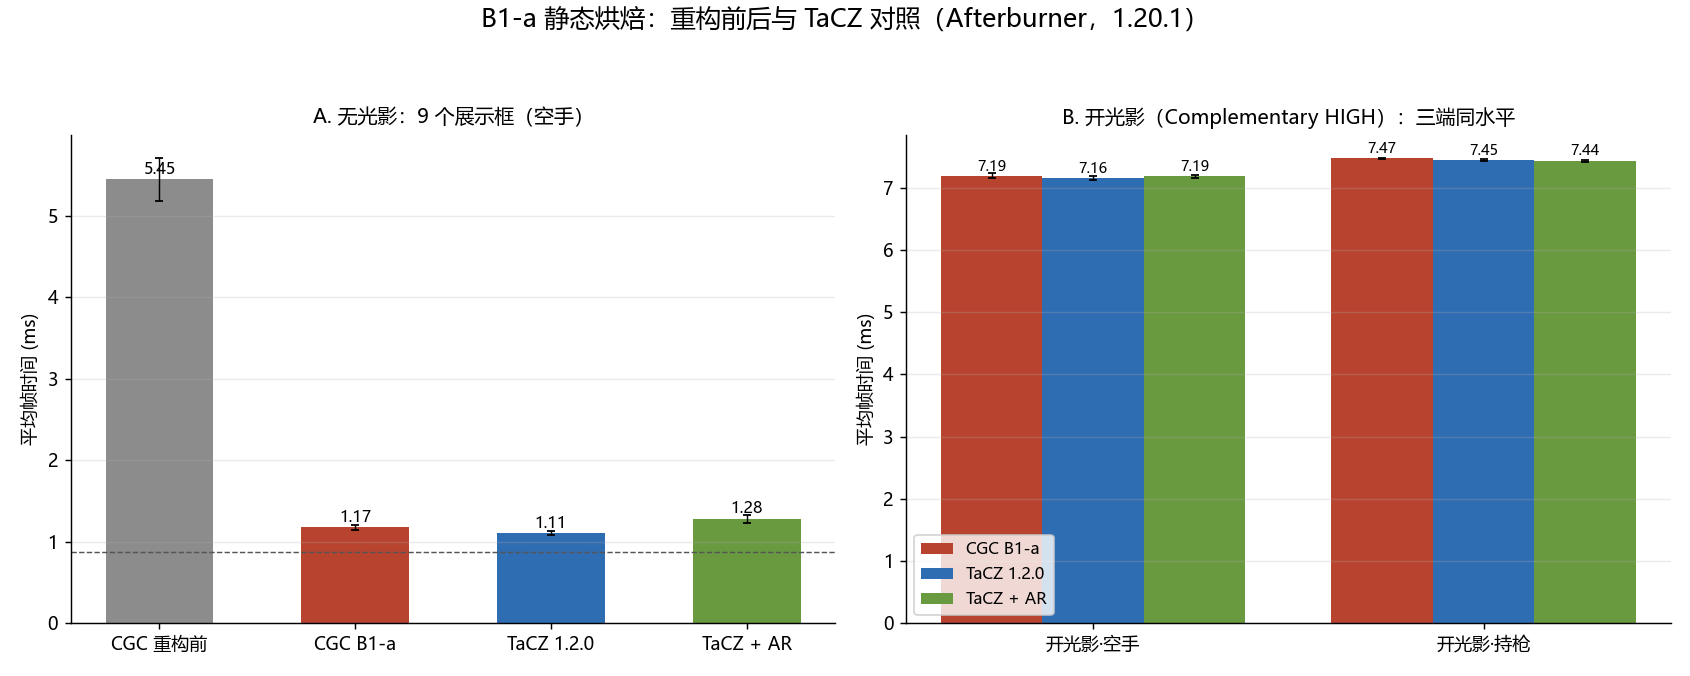
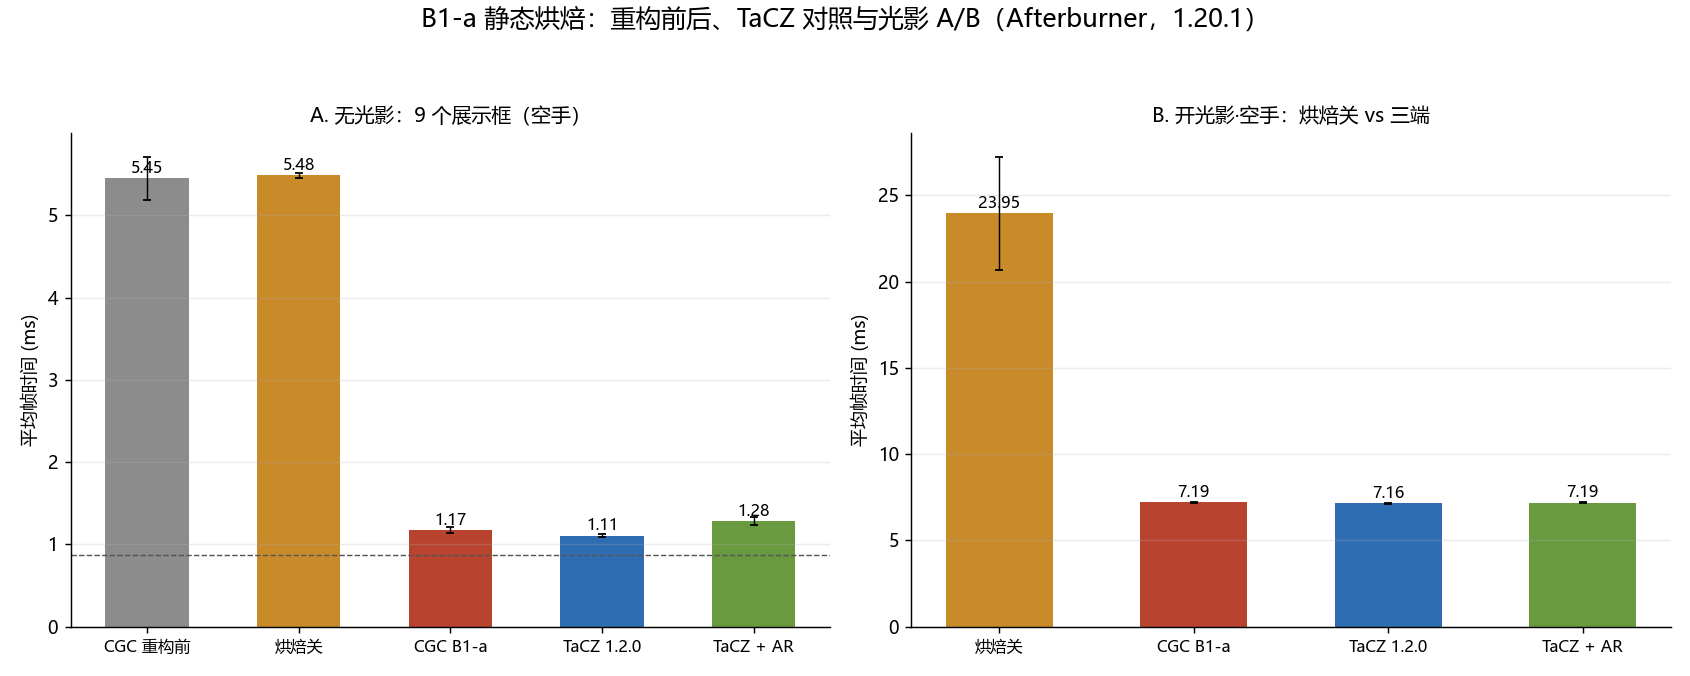
Add static bake refactor A/B testing

diff --git a/docs/architecture/client/render/benchmark/26.35.11.1-4/analyze.py b/docs/architecture/client/render/benchmark/26.35.11.1-4/analyze.py
@@ -8,6 +8,7 @@
 - `tacz2-multi (N).txt`           TaCZ 1.2.0 + Accelerated Rendering，同上
 - `b1-a-1/cgc1-multi (1).txt`     同一 4 步，修复前构建的验证跑（n=1）
 - `b1-a-2/cgc1-multi (N).txt`     2 步：空手（9 个空展示框）/ 开光影·空手（n=3）
+- `b1-a-3/cgc1-multi (N).txt`     `StaticBake#ENABLED = false` 的 A/B 对照：空手 / 开光影·空手（n=4）
 
 跨批对照（只读，不修改上一批目录）：
 - `../26.35.11.1-2/cgc1-multi (N).txt`             重构前，9 把 ak47 展示框（n=6，第 1 段为空手）
@@ -48,6 +49,7 @@ AF_REC = re.compile(
 
 POST_STEPS = ["空手（9 把 ak47）", "第一人称 ak47", "开光影·空手", "开光影·第一人称 ak47"]
 BASE_STEPS = ["空手（空展示框）", "开光影·空手（空展示框）"]
+AB_STEPS = ["空手（烘焙关）", "开光影·空手（烘焙关）"]
 
 
 def parse(path):
@@ -115,6 +117,7 @@ def main():
     tacz2 = group(BASE, r"tacz2-multi \(\d+\)\.txt", POST_STEPS)
     pre_fix = group(os.path.join(BASE, "b1-a-1"), r"cgc1-multi \(\d+\)\.txt", POST_STEPS)
     shader_base = group(os.path.join(BASE, "b1-a-2"), r"cgc1-multi \(\d+\)\.txt", BASE_STEPS)
+    ab = group(os.path.join(BASE, "b1-a-3"), r"cgc1-multi \(\d+\)\.txt", AB_STEPS)
     prev_guns = group(PREV, r"cgc1-multi \(\d+\)\.txt", ["9 把 ak47（空手）", "9 把 ak47 + 手持"])
     prev_scene = group(os.path.join(PREV, "multi-baseline"), r"cgc1-multi \(\d+\)\.txt", ["空展示框（空手）"])
 
@@ -123,6 +126,7 @@ def main():
     print_table("TaCZ 1.2.0 + Accelerated Rendering（同协议）", POST_STEPS, tacz2)
     print_table("b1-a-1（修复前构建，同一 4 步，n=1）", POST_STEPS, pre_fix)
     print_table("b1-a-2（9 个空展示框，开光影基线）", BASE_STEPS, shader_base)
+    print_table("b1-a-3（StaticBake#ENABLED=false，A/B 对照）", AB_STEPS, ab)
     print_table("26.35.11.1-2（重构前，无光影）", ["9 把 ak47（空手）", "9 把 ak47 + 手持"], prev_guns)
     print_table("26.35.11.1-2 场景基线（重构前，空展示框）", ["空展示框（空手）"], prev_scene)
 
@@ -136,6 +140,8 @@ def main():
     pre_scene = stats(prev_scene[0])
     scene_base = stats(shader_base[0])
     shader_empty = stats(shader_base[1])
+    ab_off = stats(ab[0])
+    ab_sh = stats(ab[1])
 
     print("\n## 推导")
     pre_cost = pre9["ft"] - pre_scene["ft"]
@@ -151,6 +157,8 @@ def main():
     print(f"  开光影 9 把枪相对空展示框：+{post_sh['ft'] - shader_empty['ft']:.3f} ms"
           f"（{post_sh['ft']:.3f} vs {shader_empty['ft']:.3f}），占帧 "
           f"{100.0 * (post_sh['ft'] - shader_empty['ft']) / post_sh['ft']:.1f}%")
+    print(f"  A/B 烘焙关：空手 {ab_off['ft']:.3f} ms（重构前 {pre9['ft']:.3f}，验证构建一致），"
+          f"开光影 {ab_sh['ft']:.3f} ms → 烘焙开 {post_sh['ft']:.3f} ms（{ab_sh['ft'] / post_sh['ft']:.2f}×）")
     print("  场景基线：重构前 %.3f ms / b1-a-2 %.3f ms（差 %+.3f ms，跨进程噪声）"
           % (pre_scene["ft"], scene_base["ft"], scene_base["ft"] - pre_scene["ft"]))
     b2 = [r for r in shader_base[0] if r["seconds"] > 5.0]
@@ -171,7 +179,7 @@ def main():
     print(f"  TaCZ 9 把枪成本（同一空展示框基线 {scene_base['ft']:.3f}）："
           f"{ta1[0]['ft'] - scene_base['ft']:.3f} ms，单枪 {(ta1[0]['ft'] - scene_base['ft']) / 9:.4f} ms")
 
-    plot(post9, post_fp, post_sh, post_sh_fp, pre9, ta1, ta2, scene_base)
+    plot(post9, post_fp, post_sh, post_sh_fp, pre9, ta1, ta2, scene_base, ab_off, ab_sh)
 
 
 def setup_font():
@@ -184,16 +192,16 @@ def setup_font():
     plt.rcParams["axes.spines.right"] = False
 
 
-def plot(post9, post_fp, post_sh, post_sh_fp, pre9, ta1, ta2, scene_base):
+def plot(post9, post_fp, post_sh, post_sh_fp, pre9, ta1, ta2, scene_base, ab_off, ab_sh):
     setup_font()
     fig, axes = plt.subplots(1, 2, figsize=(13, 5.2))
-    fig.suptitle("B1-a 静态烘焙：重构前后与 TaCZ 对照（Afterburner，1.20.1）", fontsize=14, y=0.99)
+    fig.suptitle("B1-a 静态烘焙：重构前后、TaCZ 对照与光影 A/B（Afterburner，1.20.1）", fontsize=14, y=0.99)
 
     ax = axes[0]
-    labels = ["CGC 重构前", "CGC B1-a", "TaCZ 1.2.0", "TaCZ + AR"]
-    vals = [pre9["ft"], post9["ft"], ta1[0]["ft"], ta2[0]["ft"]]
-    errs = [pre9["ft_sd"], post9["ft_sd"], ta1[0]["ft_sd"], ta2[0]["ft_sd"]]
-    colors = ["#8c8c8c", "#b8442f", "#2f6db3", "#6a9a3f"]
+    labels = ["CGC 重构前", "烘焙关", "CGC B1-a", "TaCZ 1.2.0", "TaCZ + AR"]
+    vals = [pre9["ft"], ab_off["ft"], post9["ft"], ta1[0]["ft"], ta2[0]["ft"]]
+    errs = [pre9["ft_sd"], ab_off["ft_sd"], post9["ft_sd"], ta1[0]["ft_sd"], ta2[0]["ft_sd"]]
+    colors = ["#8c8c8c", "#c98a2a", "#b8442f", "#2f6db3", "#6a9a3f"]
     x = np.arange(len(vals))
     ax.bar(x, vals, 0.55, yerr=errs, capsize=2, color=colors, error_kw=dict(lw=0.8))
     for xi, v in zip(x, vals):
@@ -202,30 +210,24 @@ def plot(post9, post_fp, post_sh, post_sh_fp, pre9, ta1, ta2, scene_base):
     ax.annotate(f"空展示框基线 {scene_base['ft']:.2f}", (len(vals) - 0.45, scene_base["ft"]),
                 xytext=(0, -12), textcoords="offset points", ha="right", fontsize=8, color="#555555")
     ax.set_xticks(x)
-    ax.set_xticklabels(labels)
+    ax.set_xticklabels(labels, fontsize=9)
     ax.set_ylabel("平均帧时间 (ms)")
     ax.set_title("A. 无光影：9 个展示框（空手）", fontsize=11)
     ax.grid(axis="y", alpha=0.25)
 
     ax = axes[1]
-    labels = ["开光影·空手", "开光影·持枪"]
-    series = [
-        ("CGC B1-a", [post_sh["ft"], post_sh_fp["ft"]], [post_sh["ft_sd"], post_sh_fp["ft_sd"]], "#b8442f"),
-        ("TaCZ 1.2.0", [ta1[2]["ft"], ta1[3]["ft"]], [ta1[2]["ft_sd"], ta1[3]["ft_sd"]], "#2f6db3"),
-        ("TaCZ + AR", [ta2[2]["ft"], ta2[3]["ft"]], [ta2[2]["ft_sd"], ta2[3]["ft_sd"]], "#6a9a3f"),
-    ]
-    x = np.arange(2)
-    w = 0.26
-    for i, (label, vals, errs, color) in enumerate(series):
-        xi = x + (i - 1) * w
-        ax.bar(xi, vals, w, yerr=errs, capsize=2, label=label, color=color, error_kw=dict(lw=0.8))
-        for px, v in zip(xi, vals):
-            ax.annotate(f"{v:.2f}", (px, v), textcoords="offset points", xytext=(0, 3), ha="center", fontsize=8)
+    labels = ["烘焙关", "CGC B1-a", "TaCZ 1.2.0", "TaCZ + AR"]
+    vals = [ab_sh["ft"], post_sh["ft"], ta1[2]["ft"], ta2[2]["ft"]]
+    errs = [ab_sh["ft_sd"], post_sh["ft_sd"], ta1[2]["ft_sd"], ta2[2]["ft_sd"]]
+    colors = ["#c98a2a", "#b8442f", "#2f6db3", "#6a9a3f"]
+    x = np.arange(len(vals))
+    ax.bar(x, vals, 0.55, yerr=errs, capsize=2, color=colors, error_kw=dict(lw=0.8))
+    for xi, v in zip(x, vals):
+        ax.annotate(f"{v:.2f}", (xi, v), textcoords="offset points", xytext=(0, 3), ha="center", fontsize=9)
     ax.set_xticks(x)
-    ax.set_xticklabels(labels)
+    ax.set_xticklabels(labels, fontsize=9)
     ax.set_ylabel("平均帧时间 (ms)")
-    ax.set_title("B. 开光影（Complementary HIGH）：三端同水平", fontsize=11)
-    ax.legend(fontsize=9)
+    ax.set_title("B. 开光影·空手：烘焙关 vs 三端", fontsize=11)
     ax.grid(axis="y", alpha=0.25)
 
     fig.tight_layout(rect=[0, 0, 1, 0.94])

diff --git a/docs/architecture/client/render/benchmark/26.35.11.1-4/测试数据计算报告.md b/docs/architecture/client/render/benchmark/26.35.11.1-4/测试数据计算报告.md
@@ -1,6 +1,6 @@
 # 测试数据计算报告（CGC 1.20.1 · B1-a 静态烘焙阶段验收与 TaCZ 对照）
 
-**数据**：本目录 16 个 Afterburner 文本，无内置探针——CGC `cgc1-multi (1..4).txt`（4 步 × 4 次）、TaCZ `tacz1-multi (1..4).txt`、TaCZ + Accelerated Rendering `tacz2-multi (1..4).txt`（同一 4 步 × 4 次）、`b1-a-1/cgc1-multi (1).txt`（修复前构建，n=1）、`b1-a-2/cgc1-multi (1..3).txt`（9 个**空**展示框，2 步 × 3 次，光影基线）。4 步 = 空手（9 把 ak47）/ 第一人称 ak47 / 开光影·空手 / 开光影·第一人称 ak47。
+**数据**：本目录 20 个 Afterburner 文本，无内置探针——CGC `cgc1-multi (1..4).txt`（4 步 × 4 次）、TaCZ `tacz1-multi (1..4).txt`、TaCZ + Accelerated Rendering `tacz2-multi (1..4).txt`（同一 4 步 × 4 次）、`b1-a-1/cgc1-multi (1).txt`（修复前构建，n=1）、`b1-a-2/cgc1-multi (1..3).txt`（9 个**空**展示框，2 步 × 3 次，光影基线）、`b1-a-3/cgc1-multi (1..4).txt`（`StaticBake#ENABLED = false` 的 A/B 对照，空手 / 开光影 × 4 次）。4 步 = 空手（9 把 ak47）/ 第一人称 ak47 / 开光影·空手 / 开光影·第一人称 ak47。
 **口径**：帧时间 = 1000 / FPS；均值 ± 1 样本标准差；每个文件 = 一次启动 + 进档。
 **环境**：GTX 1660 SUPER / i5-9400F / 1080p165；Forge 47.4.23 + Embeddium + Oculus；multi = 9 个石头 + 9 把 `tacz:ak47` 展示框，渲染距离 5；光影 `ComplementaryReimagined_r5.9.3`（HIGH）。详见 [标准.txt](./标准.txt)。
 **复现**：`python analyze.py`。
@@ -44,18 +44,24 @@
 
 - 静态展示（空手）：CGC 比 TaCZ 慢 0.067 ms（+6.1%），比 TaCZ + AR 快 0.105 ms；重构前 5.449 ms 是 TaCZ 的 4.9×。按同一空展示框基线 0.866 ms 推算，9 把枪 TaCZ 0.240 ms（0.027 ms/枪）、CGC 0.307 ms（0.034 ms/枪）。
 - 持枪：CGC 快 0.199 ms，来自第一人称路径本身，与静态化无关。
-- 开光影：三端 7.16–7.19 / 7.44–7.47 ms，差异 <0.5%，再次说明该场景 GPU 主导。
+- 开光影：三端 7.16–7.19 / 7.44–7.47 ms，差异 <0.5%——三端都是已优化路径，都贴在 GPU 下限；烘焙关时为 23.9 ms（第 4 节）。
 - 剩下 0.067 ms 从量级看更可能是每枪的常数项（draw 数 / 模板 / 状态）而非逐顶点成本，**尚未归因**——缺 draw 数与模板窗口的内置探针，对应 A 的剩余项与 B2。Accelerated Rendering 在静态场景反而慢 0.17 ms，不作参考。
 
-## 4. 开光影
+## 4. 开光影：A/B 对照
 
-|场景|n|帧时间|相对空展示框|
-|---|---:|---:|---:|
-|空展示框|3|6.679 ± 0.039|—|
-|9 把 ak47|4|7.193 ± 0.039|+0.514 ms（7.2%）|
-|9 把 ak47 + 第一人称|4|7.474 ± 0.010|+0.281 ms（相对 9 把枪）|
+`b1-a-3` 是把 `StaticBake#ENABLED` 置 `false` 后重新构建的对照端，其余代码相同。
 
-光影下空场 6.68 ms 已高于重构前的全部 CPU 成本 5.45 ms，该场景由 GPU 主导；重构前开光影的帧时间预计与 7.19 ms 持平。**这是推断**：缺「关烘焙 + 开光影」的同场景 A/B（`StaticBake.ENABLED = false` 需重新构建）。
+|场景|n|帧时间|
+|---|---:|---:|
+|空展示框（无烘焙）|3|6.679 ± 0.039|
+|9 把枪·烘焙关（`ENABLED = false`）|4|**23.949 ± 3.288**|
+|9 把枪·B1-a|4|**7.193 ± 0.039**|
+|9 把枪 + 第一人称·B1-a|4|7.474 ± 0.010|
+
+- **光影下烘焙是 3.3× 收益**：23.949 → 7.193 ms。烘焙关时帧时间远高于空展示框的 6.68 ms，说明重构前该场景在光影下是 **CPU 受限**，不是 GPU 受限；烘焙后才贴近 GPU 下限。
+- 同一 A/B 的无光影对照为 5.485 ms，与重构前的 5.449 ms 相差 0.7%，证明两次构建只差这一个开关。
+- 因此之前「CPU 成本 5.45 ms 低于 GPU 6.68 ms，光影下收益不可见」的推断作废：**Oculus 下立即路径的 CPU 成本远高于无光影**，不能用无光影的 CPU 数值跨场景外推。
+- 第一人称在光影下只加 0.281 ms（B1-a 范围内不含第一人称），这部分留给 B1-b。
 
 ## 5. 功能验收
 
@@ -75,13 +81,14 @@
 
 1. B1-a 在 1.20.1 无光影 multi 达标：整帧 −78.5%，单枪 −93.3%，与方案预估一致。
 2. 静态展示已与 TaCZ 1.2.0 同水平：空手 1.174 vs 1.106 ms（单枪 0.034 vs 0.027 ms），重构前为 TaCZ 的 4.9×；剩余 0.067 ms 推测是每枪常数项，未归因。
-3. 持枪 CGC 反而快 0.2 ms；开光影三端同水平（7.16–7.47 ms），GPU 主导。
-4. 剩余成本里 draw 仍占大头，B2 仍是 multi 继续下探的必要条件。
-5. 光影下 CPU 侧收益不可见，收益需要 GPU 侧手段，定论需一次同场景 A/B。
-6. 仍缺：雾的关烘焙对照、内置探针数据、光影 A/B（以及阶段 4 的 26.3）。
+3. **光影下 A/B 为 3.3×**：烘焙关 23.949 ms → 7.193 ms。重构前在光影下是 CPU 受限，烘焙后才贴近 GPU 下限（空展示框 6.68 ms）；此前「光影下收益不可见」的推断作废。
+4. 持枪 CGC 快 0.2 ms；优化后三端在光影下同水平（7.16–7.47 ms）。
+5. 剩余成本里 draw 仍占大头，B2 仍是 multi 继续下探的必要条件。
+6. 仍缺：雾的关烘焙对照、内置探针数据（以及阶段 4 的 26.3）。
 
 ## 8. 异常与说明
 
 - `b1-a-2` 的展示框内没有枪：其空手帧数 1154.6 ± 25.3（0.866 ms）与空场基线 1174.3 ± 23.9（0.852 ms）一致，有枪的同场景重构前只有 183.9 FPS。
 - `b1-a-2` 第 3 个文件首段只有 1.9 s；剔除后为 0.855 ms（n=2），不影响结论。
+- `b1-a-3` 的开光影段波动大（34.9–46.9 FPS，sd 3.29 ms）：烘焙关时是 CPU 受限，对系统负载更敏感。最慢一次（34.9 FPS ≈ 28.7 ms）仍比烘焙后慢 4.0×，不改变结论。
 - 「9 把枪 → +第一人称」的增量为 +0.62 ms，上一批同场景为 +1.08 ms；第一人称路径未改动，该差值来自 CPU 饱和程度，不作为收益。

diff --git a/docs/architecture/client/render/benchmark/Home.md b/docs/architecture/client/render/benchmark/Home.md
@@ -10,7 +10,7 @@
 |`26.35.11.1-1`|2026-11-10|CGC 1.20.1 与 26.3 双端|Afterburner + 模组内置探针，标准 4 步 + multi，每端各 6 次重复|[测试数据计算报告](./26.35.11.1-1/测试数据计算报告.md)|
 |`26.35.11.1-2`|2026-11-10|CGC 1.20.1 与 26.3 双端|Afterburner + 扩展探针（`endBatch upload` / `endBatch draw`、draw 数、上传字节、分配字节、`GPU frame busy`），标准 4 步 + multi 2 段；[`multi-baseline/`](./26.35.11.1-2/multi-baseline/) 为场景基线，结果并入本批次|[测试数据计算报告](./26.35.11.1-2/测试数据计算报告.md)|
 |`26.35.11.1-3`|2026-11-10|CGC 1.20.1 与 26.3 双端|同上一批探针；枪械换 `tacz:m4a1`，标准 3 步（空手 / 裸配 / 满配）+ multi 3 段（9 个满配展示框；+ 手持裸配；+ 手持满配），每端 3 次重复|[测试数据计算报告](./26.35.11.1-3/测试数据计算报告.md)|
-|`26.35.11.1-4`|2026-11-11|CGC 1.20.1 / TaCZ 1.2.0 / TaCZ + Accelerated Rendering|仅 Afterburner（修复前 F12 必崩，修复后本场景约 167 FPS）；同一 multi 4 步 × 4 次，另有修复前构建对照与 9 个空展示框的光影基线|[测试数据计算报告](./26.35.11.1-4/测试数据计算报告.md)|
+|`26.35.11.1-4`|2026-11-11|CGC 1.20.1 / TaCZ 1.2.0 / TaCZ + Accelerated Rendering|仅 Afterburner（修复前 F12 必崩，修复后本场景约 167 FPS）；同一 multi 4 步 × 4 次，另有修复前构建对照、`ENABLED = false` A/B 与 9 个空展示框的光影基线|[测试数据计算报告](./26.35.11.1-4/测试数据计算报告.md)|
 
 各批次的分工：
 
@@ -22,7 +22,7 @@
 - `26.35.11.1-3` 回答**满配枪械的成本与 draw 下限**：附件（瞄具 / 激光 / 握把 / 枪口 / 枪托）把单枪立方体数抬到 2.3 倍、每枪 draw 数抬到 9 次，瞄具模板成为第一人称最大单项（0.72 ms，36.8%）。
   - 本批 multi 用 9 个**满配**展示框，与上一批的 9 把裸枪**不是同一场景**（14.72 ms vs 5.45 ms），不可跨批比较。
   - 每端只有 3 次重复，1.20.1 第 3 次采集缺少「满配」一段（n=2）；空手场景的探针固定开销按无探针构建（0.8003 ms）估算仍约 0.048 ms/帧。
-- `26.35.11.1-4` 回答 **B1-a 静态烘焙的阶段验收与 TaCZ 对照**：三端同场景、同 4 步、各 4 次；B1-a 之后 CGC 的静态展示与 TaCZ 1.2.0 同水平（空手 1.174 vs 1.106 ms，重构前为 4.9×）。本批取代 `26.35.11.1` 的 TaCZ multi 数据（n=1、步骤顺序相反、ak47 可能未拆枪托）。
+- `26.35.11.1-4` 回答 **B1-a 静态烘焙的阶段验收与 TaCZ 对照**：三端同场景、同 4 步、各 4 次；B1-a 之后 CGC 的静态展示与 TaCZ 1.2.0 同水平（空手 1.174 vs 1.106 ms，重构前为 4.9×），光影 A/B 为 23.9 → 7.19 ms。本批取代 `26.35.11.1` 的 TaCZ multi 数据（n=1、步骤顺序相反、ak47 可能未拆枪托）。
 
 ## 约定
 

diff --git a/docs/deprecated/prompt/#92 Static-bake-refactor.md b/docs/deprecated/prompt/#92 Static-bake-refactor.md
@@ -247,3 +247,35 @@ Now the bake method itself.
 - [reference-tacz-1.2.0.md](docs/architecture/client/render/refactor/reference-tacz-1.2.0.md) 的 V1 与 [scheme-d](docs/architecture/client/render/refactor/scheme-d-culling-lod-parallel.md) 的参照值同步更新。
 
 代码（`BakedMesh` 的 `BufferBuilder` 复用）和全部文档改动都未提交。
+
+# 
+
+```
+我改StaticBake额外做了个AB测试26.35.11-4/b1-a-3/，更新报告
+```
+
+# 
+
+A/B 数据已经拿到，它推翻了我之前“光影下 GPU 主导、收益不可见”的推断。我先把 A/B 并入脚本和报告。
+
+A/B 数据已并入，报告新增第 4 节。
+
+**结果**（`b1-a-3`，`StaticBake#ENABLED = false`）：
+
+| 场景 | n | 帧时间 |
+|---|---:|---:|
+| 空展示框（无烘焙） | 3 | 6.679 ± 0.039 ms |
+| 9 把枪·烘焙关 | 4 | **23.949 ± 3.288 ms** |
+| 9 把枪·B1-a | 4 | **7.193 ± 0.039 ms** |
+| 9 把枪 + 第一人称·B1-a | 4 | 7.474 ± 0.010 ms |
+
+关键结论：
+
+- **光影下烘焙是 3.3× 收益**（23.9 → 7.19 ms）。烘焙关时帧时间远高于空展示框的 6.68 ms，说明重构前在光影下是 **CPU 受限**，不是 GPU 受限；烘焙后才贴近 GPU 下限。
+- 之前报告的推断——「CPU 成本 5.45 ms 低于 GPU 6.68 ms，所以光影下收益不可见」——**作废**。错误在于拿无光影的 CPU 数值跨光影外推：Oculus 下立即路径的 CPU 成本高得多。报告里已明确写出这一点，避免后续再踩。
+- 同一 A/B 的无光影对照为 5.485 ms，与重构前的 5.449 ms 差 0.7%，证明两次构建只差这一个开关。
+- 开光影段波动较大（34.9–46.9 FPS，sd 3.29 ms，CPU 受限时对系统负载更敏感），最慢一次仍比烘焙后慢 4.0×，不影响结论。
+
+**同步更新**：[analyze.py](docs/architecture/client/render/benchmark/26.35.11.1-4/analyze.py) 解析四个分组并重画了图（A 面板加入「烘焙关」，B 面板改为光影下 A/B 与三端对比）；[TODO.md](docs/architecture/client/render/TODO.md) 的「光影 A/B 待补」改为已完成并记录 23.9 → 7.19 ms，数据清单里对应的待办也勾掉；[benchmark/Home.md](docs/architecture/client/render/benchmark/Home.md) 的 -4 行与分工补上 A/B 构建和结论。
+
+全部改动未提交，等你 review。

diff --git a/docs/architecture/client/render/TODO.md b/docs/architecture/client/render/TODO.md
@@ -13,7 +13,7 @@
   - [ ] 把整帧 GPU 查询与分配采样改为每 N 帧一次（现有固定开销约 0.048 ms/帧）
 - [ ] **阶段 1 B1-a 静态烘焙**：展示框 / 地面 / 第三人称（节点静态，`State changes = 0`）；含瞄具模板的那组 pass；顺带合并同纹理 flush、去掉 1.20.1 双重节点快照、模板每帧一清。验证缓存失效与光影表现
   - 已实现（`StaticBake.ENABLED = true`）：无光影走 `customgun:cgc_baked_entity`，开光影包走光影包自己的实体 program（Oculus 在 `GameRenderer.getRendertype*Shader()` 换 shader，实例矩阵同时驱动位置 / 法线 / 雾）
-  - 1.20.1 阶段验收通过（2026-11-11，[报告](./benchmark/26.35.11.1-4/测试数据计算报告.md)）：功能项通过；待补雾的关烘焙对照、内置探针、光影下「关烘焙」A/B
+  - 1.20.1 阶段验收通过（2026-11-11，[报告](./benchmark/26.35.11.1-4/测试数据计算报告.md)）：功能项通过；光影 A/B 3.3×（烘焙关 23.9 → 7.19 ms）；待补雾的关烘焙对照、内置探针
   - 已修复：F12 崩溃（`BakedMesh` 每次烘焙新建 `BufferBuilder`，1.20.1 的原生缓冲从不释放）
   - 实现与验收清单见 [`refactor/b1a-static-bake.md`](./refactor/b1a-static-bake.md)；26.3 的绘制方式（自定义 `RenderPipeline` + `assignPipeline`）见同文档「26.3 / 跨版本」
   - 已顺带完成：移除 1.20.1 双重节点快照（multi 实测 0.135 ms/帧）
@@ -33,4 +33,4 @@
 - [ ] CGC 绘制区间的 GPU 时间（现有整帧 `GL_TIME_ELAPSED` 只是命令跨度）
 - [ ] 按节点的脏计数（第一人称动画覆盖比例）
 - [ ] 26.3 满配第一人称比 1.20.1 多 296 个立方体的原因（`Cubes submitted` 2031 vs 1735）
-- [ ] 开 / 关光影下烘焙路径的画面与耗时对照（B 阶段）
+- [x] 开 / 关光影下烘焙路径的画面与耗时对照（B 阶段）：画面通过；耗时 23.949 → 7.193 ms（`26.35.11.1-4` 的 `ENABLED = false` A/B）
